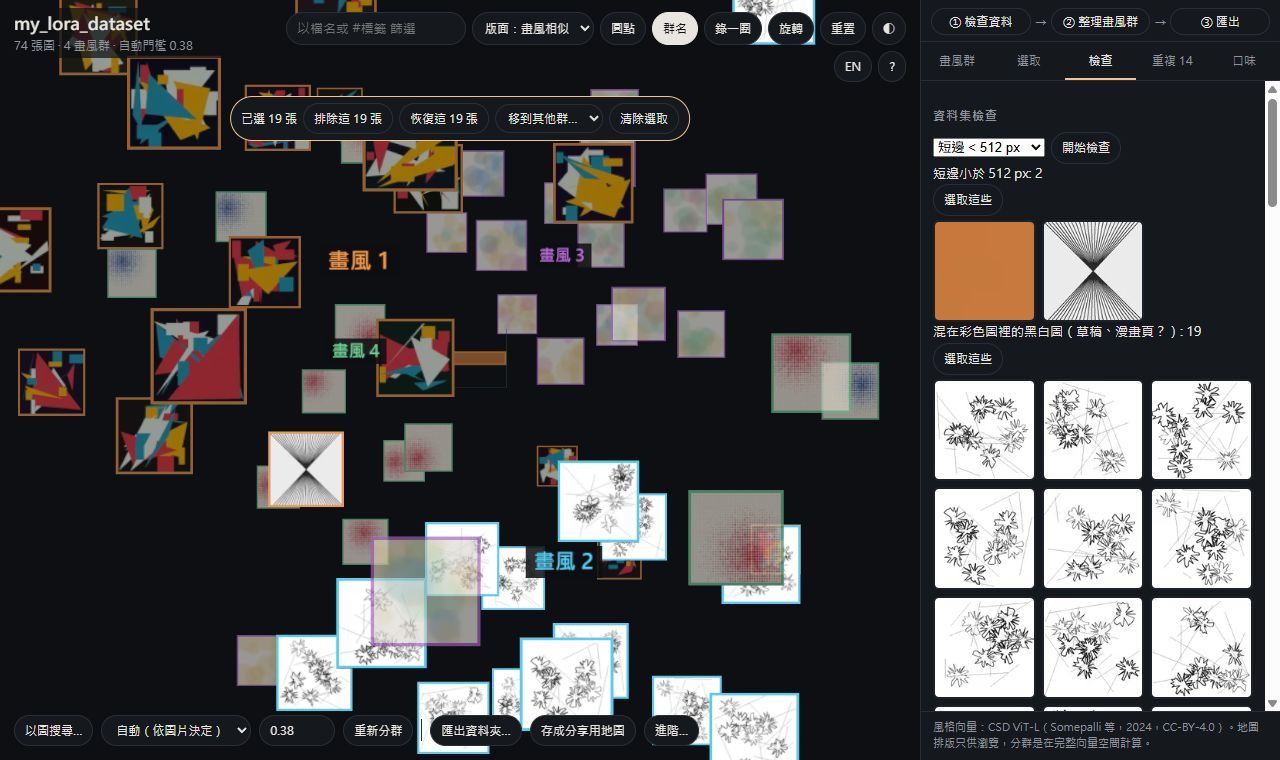
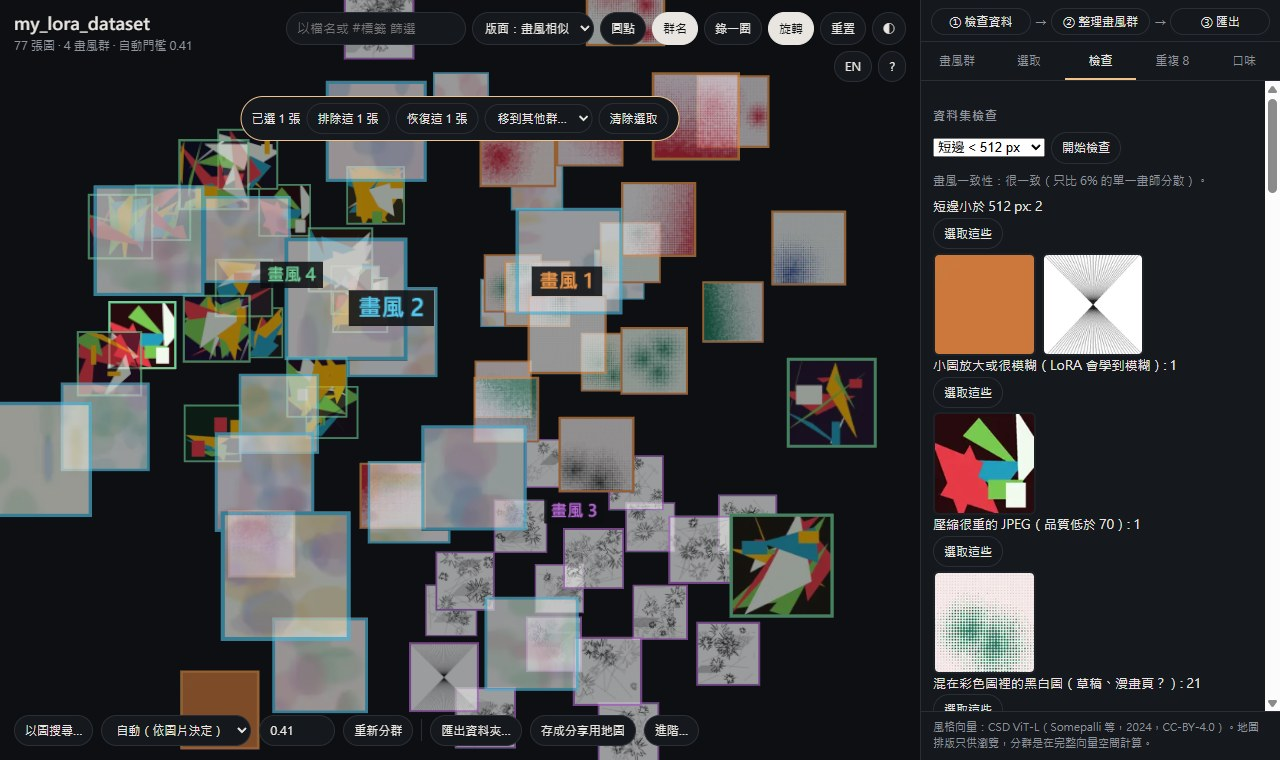
docs: retake all screenshots on the new demo images (check tab with consistency, enlarged, JPEG and signature findings)

diff --git a/docs/WEB_GUIDE.md b/docs/WEB_GUIDE.md
@@ -6,7 +6,7 @@
 
 ## ① 檢查資料
 
-![檢查分頁：按「開始檢查」列出問題圖，「選取這些」一次選起來，再用上方的「排除這 19 張」](images/guide_1_check.jpg)
+![檢查分頁：按「開始檢查」，最上面是畫風一致性，下面列出問題圖；「選取這些」一次選起來，再用上方的「排除這 N 張」](images/guide_1_check.jpg)
 
 1. 點「① 檢查資料」，再按「開始檢查」。最上面一行是**畫風一致性**：和 250 位畫師比，這個資料夾的畫風有多分散。顯示「多半混了不同畫風或時期」時，到「② 整理畫風群」把它分開。接著會列出：
    - 太小的圖（短邊可以選 512／768／1024 px）；
